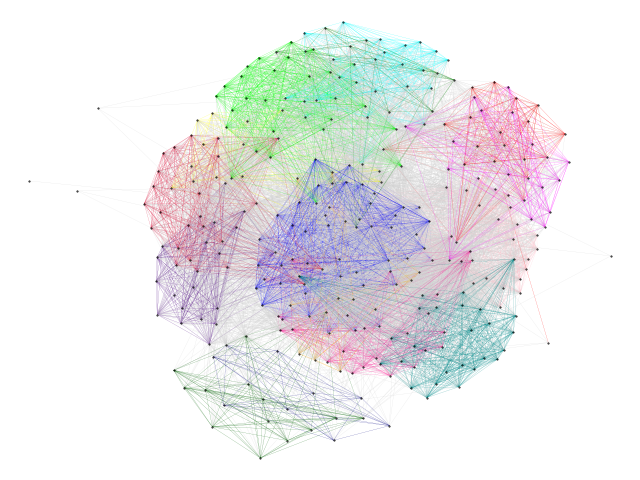
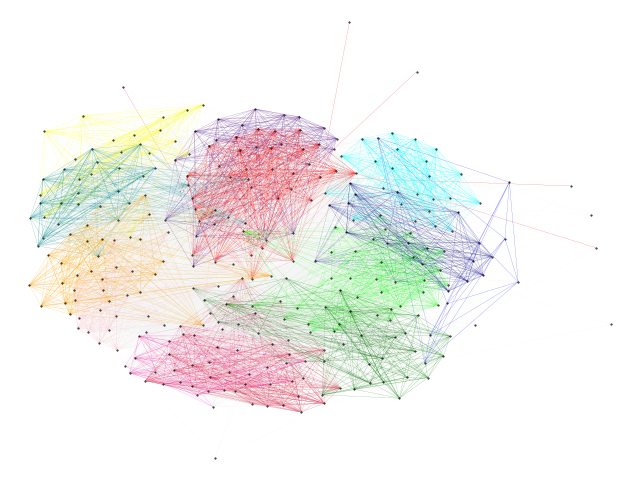
Final run

diff --git a/BigCLAM/bigclam.py b/BigCLAM/bigclam.py
@@ -413,7 +413,7 @@ def node_to_node(num_communities, num_steps):
     colors = [f_graph[u][v]['color'] for u, v in edges]
     nx.draw(f_graph, node_color="black", node_size=0.2, width=0.1, font_size=0.5, edge_color=colors,
             pos=nx.kamada_kawai_layout(f_graph))
-    plt.savefig('node-to-node.png', quality=95)
+    plt.savefig('node-to-node.png', quality=100)
     plt.show()
 
 
@@ -452,7 +452,7 @@ def post_to_post(num_communities, num_steps):
     plt.show()
 
 
-#node_to_node(15, 400)
-post_to_post(8, 400)
+node_to_node(15, 500)
+#post_to_post(7, 400)
 
 
